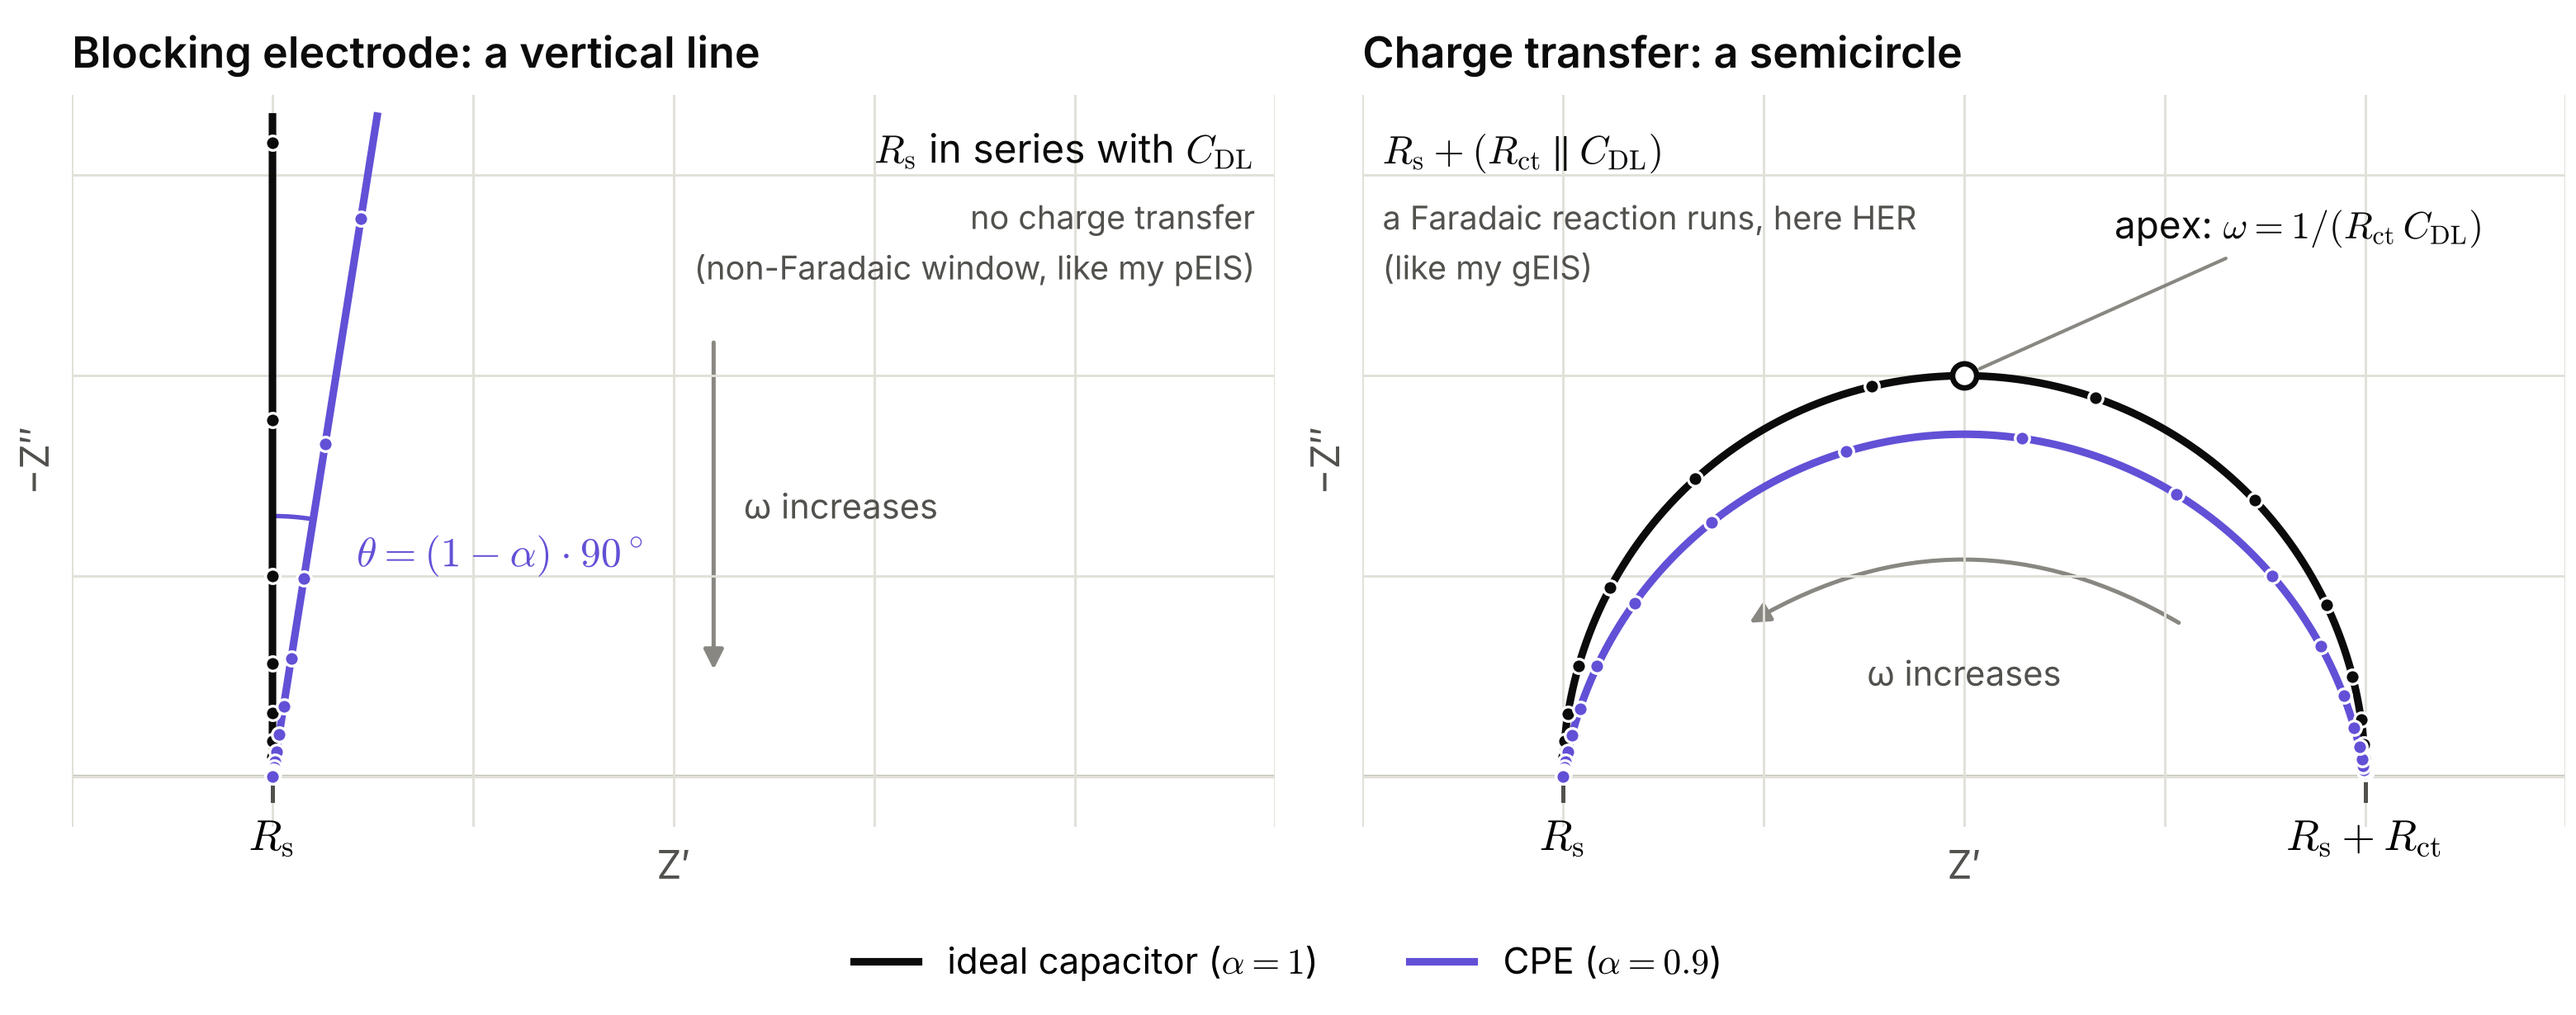
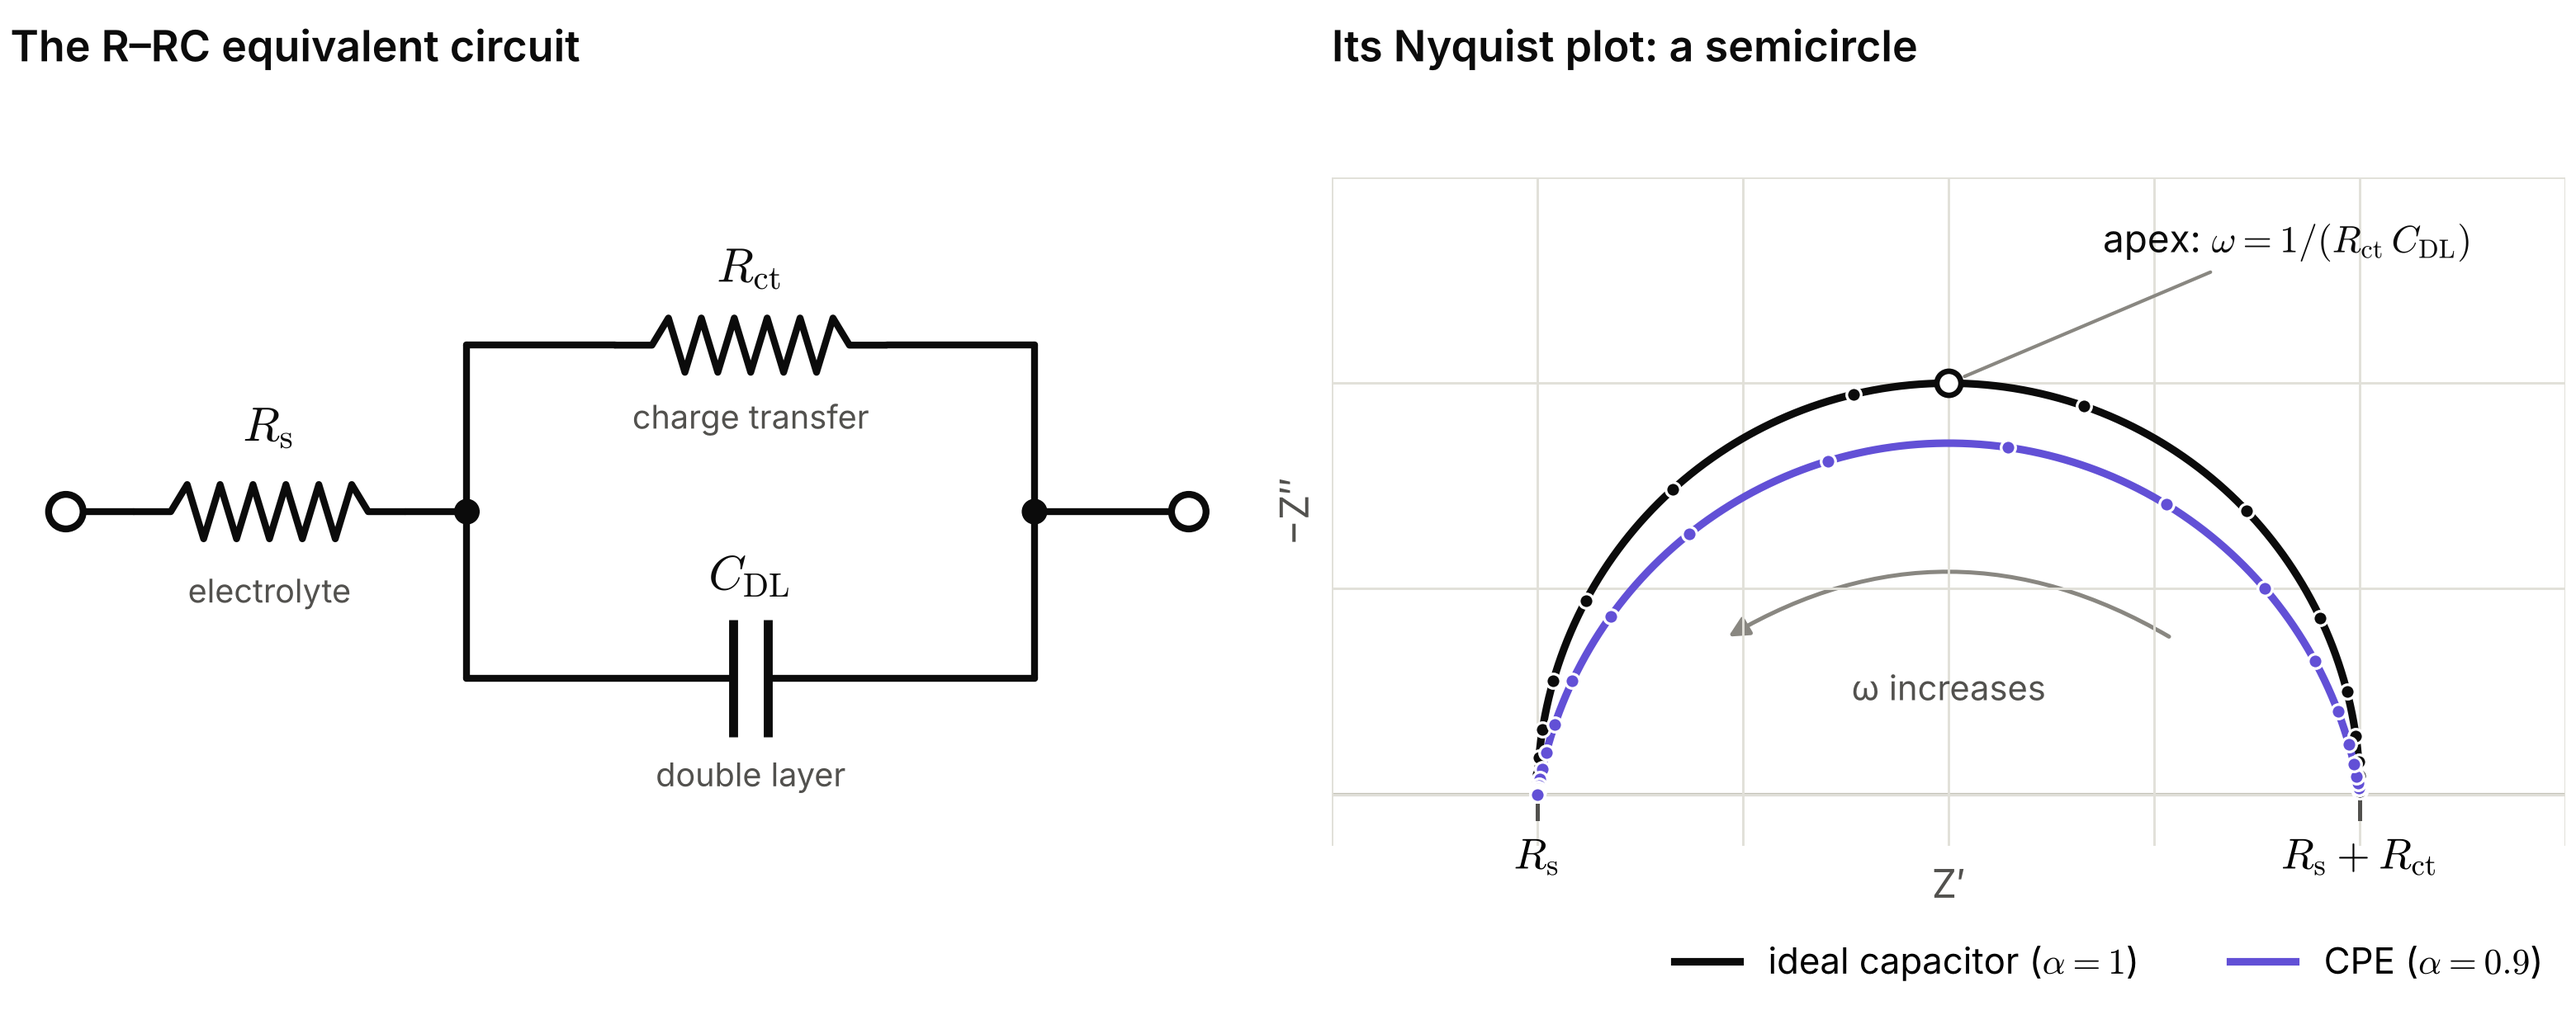
updates

diff --git a/_posts/2026-10-15-ecsa-iceberg.md b/_posts/2026-10-15-ecsa-iceberg.md
@@ -18,7 +18,7 @@ Electrochemistry is complicated. It gets more complicated the deeper you get int
 > **TL;DR**
 >
 > - Every activity metric in electrocatalysis is a current divided by an area. Pick a different area and you can reach a different conclusion if you're not careful.
-> - The textbook shortcut for the ECSA, gives an *apparent* area, resting on several assumptions.
+> - The textbook shortcut for the ECSA gives an *apparent* area, resting on several assumptions.
 > - That doesn't make it useless, but one does need to measure it carefully, and read it as a diagnostic rather than a ranking between catalysts.
 {: .block-tip }
 
@@ -45,7 +45,7 @@ The overpotential is the extra potential beyond equilibrium needed to run a reac
   </div>
 </div>
 <div class="caption">
-  Fig 1. Left: a schematic CV (cyclic voltammogram) with the non-Faradaic window marked; the only current there is double-layer charging. Right: inner and outer Helmholtz planes and the diffuse layer. Redrawn after corresponding figures of my MSc thesis <a href="#ref-1">[1]</a>, which were adapted from <a href="#ref-13">[13]</a> and <a href="#ref-14">[14]</a>.
+  Fig 1. Left: a schematic CV (cyclic voltammogram) with the non-Faradaic window marked; the only current there is double-layer charging. Right: inner and outer Helmholtz planes and the diffuse layer. Redrawn after corresponding figures of my thesis <a href="#ref-1">[1]</a>, which were adapted from <a href="#ref-13">[13]</a> and <a href="#ref-14">[14]</a>.
 </div>
 
 **The measurement.** So how do you measure the ECSA? More real surface means more capacitance. So, divide the measured double-layer capacitance by the capacitance of an ideally flat surface of the same material, or the *specific capacitance* $$C_s$$, and you get: 
@@ -57,45 +57,39 @@ The real $$C_s$$ is typically unknown, so common practice is to borrow a literat
 **Measuring $$C_{\text{DL}}$$.** There are two standard routes. One is to run CVs at several scan rates inside the non-Faradaic window and take the slope of charging current against scan rate, $$i_c = C_{\text{DL}}\,\nu$$ [[7]](#ref-7). The other is electrochemical impedance spectroscopy (EIS). I went with EIS, mainly for speed, which matters when every sample sits inside an optimization loop.
 
 <details markdown="1">
-<summary><strong>EIS in 90 seconds</strong> (click to expand)</summary>
+<summary><strong>EIS explained, briefly</strong> (click to expand)</summary>
 
-**EIS explained, briefly.** A CV sweeps the potential and watches the current. EIS instead holds the electrode at a fixed DC operating point and adds a small wiggle on top: a sinusoidal voltage of typically 5–10 mV (potentiostatic) or a small AC current (galvanostatic). The response is recorded one frequency at a time, usually from about 100 kHz down into the mHz range. The ratio of the two sine waves (their amplitude ratio and phase shift) is the impedance, $$Z(\omega) = Z' + jZ''$$, where $$j$$ is the imaginary unit, not a current density.
+A CV sweeps the potential and watches the current. EIS instead holds the electrode at a fixed DC operating point and adds a small wiggle on top: a sinusoidal voltage of typically 5–10 mV (potentiostatic) or a small AC current (galvanostatic). The response is recorded one frequency at a time, usually from about 100 kHz down into the mHz range. The ratio of the two sine waves (their amplitude ratio and phase shift) is the impedance, $$Z(\omega) = Z' + jZ''$$, where $$j$$ is the imaginary unit, not a current density.
 
 The payoff is separation. Every process at the interface has its own time constant, $$\tau = RC$$. Fast processes, like ions moving through the electrolyte, respond at high frequencies; slower ones, like charge transfer, adsorption and diffusion, respond at low frequencies. One frequency sweep pulls apart what a CV smears together. The fine print: this only works if the system responds linearly (hence the small amplitude), stays stable for the whole sweep, and responds only to the perturbation. A Kramers–Kronig test checks this before you fit anything. For any linear, stable, causal system, the real and imaginary parts of the impedance are mathematically linked, so each can be calculated from the other; if the measured parts disagree, something went wrong during the measurement. In practice, software fits the spectrum with a long chain of RC elements, which obey these relations by construction, and checks that the leftover errors are small and random [[11]](#ref-11).
 
-</details>
-
-The usual way to look at the result is a Nyquist plot: $$-Z''$$ against $$Z'$$, one point per frequency, high frequencies on the left. Two shapes matter for this post:
-
-- **No charge transfer** (as in the non-Faradaic window): $$R_s$$ in series with $$C_{\text{DL}}$$ gives a vertical line, starting at $$R_s$$.
-- **Charge transfer**: $$R_s$$ in series with $$R_{ct}$$ in parallel with $$C_{\text{DL}}$$ gives a semicircle from $$R_s$$ to $$R_s + R_{ct}$$, with its apex at $$\omega = 1/(R_{ct}\,C_{\text{DL}})$$.
-
-<div class="row mt-3">
-  <div class="col-sm mt-3 mt-md-0">
-    {% include figure.liquid loading="eager" path="assets/img/posts/ecsa/eis-nyquist-primer.png" class="img-fluid rounded z-depth-1" zoomable=true alt="Nyquist plots of a blocking electrode (vertical line) and a charge-transfer interface (semicircle), each for an ideal capacitor and a constant phase element" %}
-  </div>
-</div>
-<div class="caption">
-  Fig 2. The two Nyquist shapes behind my measurements, computed from the circuit equations (illustrative values; dots mark individual frequencies). Real electrodes behave more like a constant phase element (CPE, more on it below): the vertical line tilts and the semicircle flattens. After Lazanas & Prodromidis <a href="#ref-11">[11]</a>.
-</div>
+In my thesis I also ran potentiostatic EIS in the non-Faradaic window, but only as a qualitative check; every number in this post comes from the galvanostatic measurements (gEIS) shown below.
 
 Another caveat: an equivalent circuit is a model, not a measurement. Different circuits can produce identical spectra, so every element in a fit needs a physical reason to be there. For a much fuller (and very readable) treatment, see the open-access tutorial by Lazanas and Prodromidis [[11]](#ref-11).
 
-**My two measurements.** In the thesis I ran EIS in two flavours:
+</details>
 
-- **pEIS** (potentiostatic): a small AC potential on top of a DC bias set in the middle of the non-Faradaic window. Used to extract $$C_{\text{DL}}$$.
-- **gEIS** (galvanostatic): a small AC current perturbation on top of a DC current, i.e. with hydrogen evolution running. Used mainly for the ohmic (solution) uncompensated resistance correction *(the so-called iR correction)*.
-
-Both were fitted with a simple R–RC circuit: a solution resistance $$R_s$$ in series with a charge-transfer resistance $$R_{ct}$$ that sits in parallel with the double layer:
+The usual way to look at an impedance spectrum is a Nyquist plot: $$-Z''$$ against $$Z'$$, one point per frequency, high frequencies on the left. The simplest model with charge transfer is the R–RC circuit (Fig. 2, left): a solution resistance $$R_s$$ in series with a charge-transfer resistance $$R_{ct}$$ that sits in parallel with the double layer:
 
 $$
 Z(\omega) = R_s + \frac{R_{ct}}{1 + j\omega R_{ct}\, C_{\text{DL}}}
 $$
 
-That is the charge-transfer case from above, so on a Nyquist plot it should closely trace a semicircle. The gEIS spectrum, measured under a DC current with hydrogen evolution running, does exactly that: charge transfer occurs here, and $$R_{ct}$$ reflects the HER kinetics at that current.
+On a Nyquist plot, this traces a semicircle from $$R_s$$ to $$R_s + R_{ct}$$, with its apex at $$\omega = 1/(R_{ct}\,C_{\text{DL}})$$ (Fig. 2, right).
 
 <div class="row mt-3">
-  <div class="col-sm-7 mt-3 mt-md-0 mx-auto">
+  <div class="col-sm mt-3 mt-md-0">
+    {% include figure.liquid loading="eager" path="assets/img/posts/ecsa/eis-nyquist-primer.png" class="img-fluid rounded z-depth-1" zoomable=true alt="The R-RC equivalent circuit and its semicircular Nyquist plot, for an ideal capacitor and a constant phase element" %}
+  </div>
+</div>
+<div class="caption">
+  Fig 2. Left: the R–RC equivalent circuit. Right: its Nyquist plot, computed from the circuit equation (illustrative values; dots mark individual frequencies). Real electrodes behave more like a constant phase element (CPE, more on it below), which flattens the semicircle. After Lazanas & Prodromidis <a href="#ref-11">[11]</a>.
+</div>
+
+**My measurement.** The gEIS applied a small AC current perturbation on top of a DC current, i.e. with hydrogen evolution running. Its spectrum closely traces the R–RC semicircle (Fig. 3): charge transfer occurs here, and $$R_{ct}$$ reflects the HER kinetics at that current. The same fit gave me both numbers I needed: $$R_s$$ for the ohmic (solution) resistance correction *(the so-called iR correction)*, and $$C_{\text{DL}}$$ for the ECSA. That's one advantage of EIS: the semicircle separates the double layer from charge transfer even with the reaction running, so no non-Faradaic window is needed.
+
+<div class="row justify-content-sm-center mt-3">
+  <div class="col-sm-7 mt-3 mt-md-0">
     {% include figure.liquid loading="eager" path="assets/img/posts/ecsa/thesis-geis-nyquist.png" class="img-fluid rounded z-depth-1" zoomable=true alt="gEIS Nyquist plot showing a semicircle and its R-RC fit" %}
   </div>
 </div>
@@ -141,7 +135,7 @@ Double-layer capacitance responds to the charged interface wherever it exists, n
 
 ### 2. $$C_s$$ is not a constant
 
-Their compilation of reported specific capacitances spans from a few to over 200 µF cm⁻², depending on electrode material, electrolyte and measurement protocol. The same metal in two electrolyte concentrations, or the same RuO₂ facet (ordered versus disordered), can differ by close to a factor of two. One proposed workaround is to measure in an electrolyte chosen to suppress ion transfer across the interface, so that only genuine double-layer charging gets counted [[8]](#ref-8). The one aqueous nickel value in their figure sits around 30 µF cm⁻² (though measured in NaClO₄, not KOH as in my case). Even the "standard" shortcuts disagree: 20 µF cm⁻² is common for flat metals, while an influential OER benchmarking study used 40 µF cm⁻² in 1 M NaOH [[10]](#ref-10). That's a factor of two in ECSA from the choice of citation.
+Their compilation of reported specific capacitances spans from a few to over 200 µF cm⁻², depending on electrode material, electrolyte and measurement protocol. The same metal in two electrolyte concentrations, or the same RuO₂ facet (ordered versus disordered), can differ by close to a factor of two. One proposed workaround is to measure in an electrolyte chosen to suppress ion transfer across the interface, so that only genuine double-layer charging gets counted [[8]](#ref-8). The one aqueous nickel value in Fig. 4 sits around 30 µF cm⁻² (though measured in NaClO₄, not KOH as in my case). Even the "standard" shortcuts disagree: 20 µF cm⁻² is common for flat metals, while an influential OER benchmarking study used 40 µF cm⁻² in 1 M NaOH [[10]](#ref-10). That's a factor of two in ECSA from the choice of citation.
 
 <div class="row justify-content-sm-center mt-3">
   <div class="col-sm-8 mt-3 mt-md-0">
@@ -162,13 +156,13 @@ $$
 Z_{\text{CPE}}(\omega) = \frac{1}{(j\omega)^{\alpha}\, Y_0}
 $$
 
-With $$\alpha = 1$$ you recover an ideal capacitor; anything below 1 tilts the vertical line from the primer figure above. The catch for ECSA: $$Y_0$$ is not a capacitance (its units are F s<sup>α−1</sup>), so it can't go straight into $$C_{\text{DL}}/C_s$$. For a blocking electrode, Brug's formula [[12]](#ref-12) converts it into an effective capacitance first:
+With $$\alpha = 1$$ you recover an ideal capacitor; the further $$\alpha$$ drops below 1, the flatter the semicircle gets (the purple curve in Fig. 2). The catch for ECSA: $$Y_0$$ is not a capacitance (its units are F s<sup>α−1</sup>), so it can't go straight into $$C_{\text{DL}}/C_s$$. Brug's formula [[12]](#ref-12) converts it into an effective capacitance first. With charge transfer present, as in an R–RC fit under HER, it reads:
 
 $$
-C_{\text{eff}} = Y_0^{1/\alpha}\, R_s^{(1-\alpha)/\alpha}
+C_{\text{eff}} = \left[ Y_0 \left( \frac{1}{R_s} + \frac{1}{R_{ct}} \right)^{\alpha - 1} \right]^{1/\alpha}
 $$
 
-Even then, as $$\alpha$$ drops, the result is more an effective, phenomenological number than one physical capacitance. Porosity adds a further wrinkle: deep pores need enough time (lower frequencies) and enough ionic strength to charge, so the chosen frequency window decides how much of a porous electrode, like a nickel foam, you actually "see". 
+Even then, as $$\alpha$$ drops, the result is more of an effective number than a physical capacitance. Porosity adds a further wrinkle: deep pores need enough time (lower frequencies) and enough ionic strength to charge, so the chosen frequency window decides how much of a porous electrode, like a nickel foam, you actually "see". 
 
 ### The Faradaic route?
 
@@ -202,7 +196,7 @@ The catch: the probe has to sample the same sites that drive the reaction. Stron
 - **Choose the area.** Given my specific assumptions, be more clear about which 'area' I would normalize over. Geometric, apparent real area, ECSA from which probe, or even directly the active sites. 
 - **Ideally measure $$C_{\text{DL}}$$ two ways**, both by CV scan rate [[7]](#ref-7) and by EIS.
 - **Check the EIS data before fitting.** Run a Kramers–Kronig test, and repeat at two amplitudes to confirm the response is linear.
-- **Fit the right circuit.** In the non-Faradaic window that means $$R_s$$ in series with a CPE, rather than the R–RC I used. Report α, and convert $$Y_0$$ to an effective capacitance before dividing by $$C_s$$.
+- **Fit a CPE, not an ideal capacitor.** Under HER that means $$R_s$$ in series with $$R_{ct}$$ in parallel with a CPE, rather than the ideal R–RC I used. Report α, and convert $$Y_0$$ to an effective capacitance (Brug) before dividing by $$C_s$$.
 - **State $$C_s$$ and its source.** Or better still, measure it on a smooth reference of the same material in the same electrolyte. 
 - **Measure before and after stability testing.** Determining morphological changes to the area is critical for explainable results, as shown in the CatBot experiments.
 - **Treat ECSA as a diagnostic**, cross-checked against evidence from SEM and XPS measurements, rather than a metric to rank catalysts by.
@@ -214,11 +208,11 @@ Back to the iceberg. Here are some more questions I can now ask, but not yet ans
 - For Ni-based alloys in higher temperature and more concentrated KOH, which probe (if any) reflects the HER-active sites the way H-UPD does on Pt? A comparison of ECSA methods on nickel nanostructures [[9]](#ref-9) is a good starting point.
 - How much of a porous foam's surface does a given EIS frequency window actually sample?
 - When composition shifts during operation (such as Mo or W leaching), how far does $$C_s$$ move with it, if at all?
-- What were the last few low-frequency gEIS points doing below the real axis in my plot? The EIS tutorial [[11]](#ref-11) notes that low-frequency inductive loops are usually blamed on adsorbed reaction intermediates (and the HER has one: adsorbed hydrogen). Drift during a long, low-frequency measurement (bubbles forming under the HER current, for one) can produce artefacts too, and a Kramers–Kronig test would have told me which.
+- What were the last few low-frequency gEIS points doing below the real axis in Fig. 3? The EIS tutorial [[11]](#ref-11) notes that low-frequency inductive loops are usually blamed on adsorbed reaction intermediates (and the HER has one: adsorbed hydrogen). Drift during a long, low-frequency measurement (bubbles forming under the HER current, for one) can produce artefacts too, and a Kramers–Kronig test would have told me which.
 
 So, after all this I'm a bit closer to knowing how much I don't know. My main takeaway from this whole exercise is that **reproducibility of catalytic (or really any electrochemical) experiments is critical**, and reporting results in an agreed upon, normalized fashion would go a long way towards achieving it. At the same time, incorporating classic systematic and statistical **uncertainty propagation methods** relevant to one's experimental setup and parameters is another area that I find is often overlooked and that I like to focus on. Beyond typical error estimation through the Bayesian optimization loop itself, I think it can often help a researcher pinpoint hidden weaknesses in a setup, before running a full autonomous discovery loop.
 
-*If you're curious about the optimization side, I rebuilt the thesis Bayesian-optimization workflow in Ax, built on top of BoTorch (check out the related project side [here](https://michailmitsakis.github.io/projects/msc-thesis/) and the repo [Ax_bayes_opt_NiW](https://github.com/michailmitsakis/Ax_bayes_opt_NiW))* 
+*If you're curious about the optimization side, I rebuilt the thesis Bayesian-optimization workflow in Ax, built on top of BoTorch (check out the related project page [here](https://michailmitsakis.github.io/projects/msc-thesis/) and the repo [Ax_bayes_opt_NiW](https://github.com/michailmitsakis/Ax_bayes_opt_NiW))* 
 
 ## References
 
